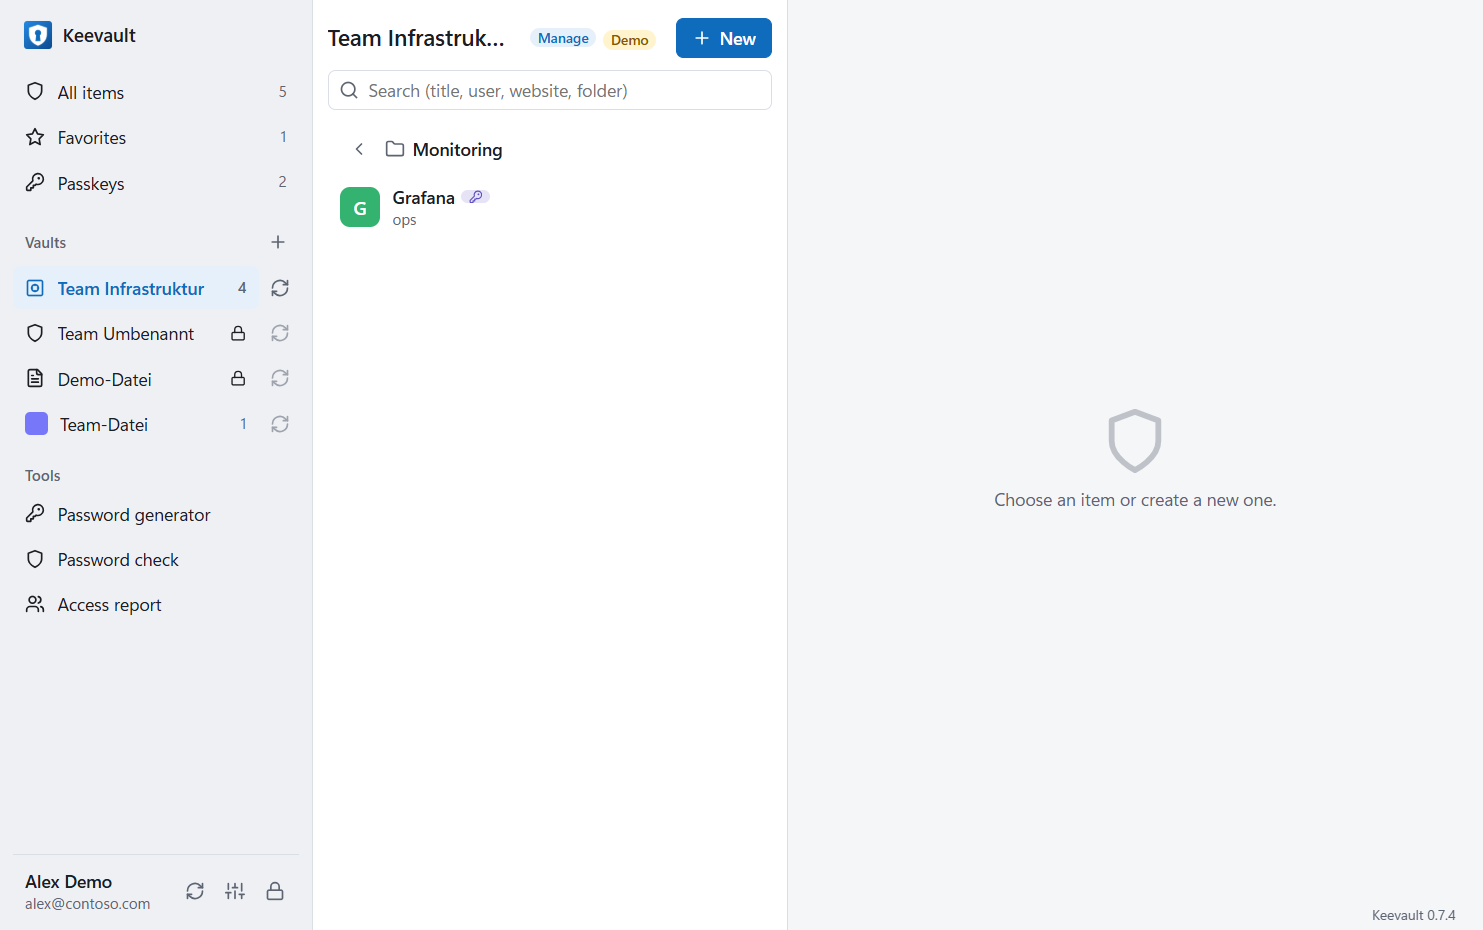
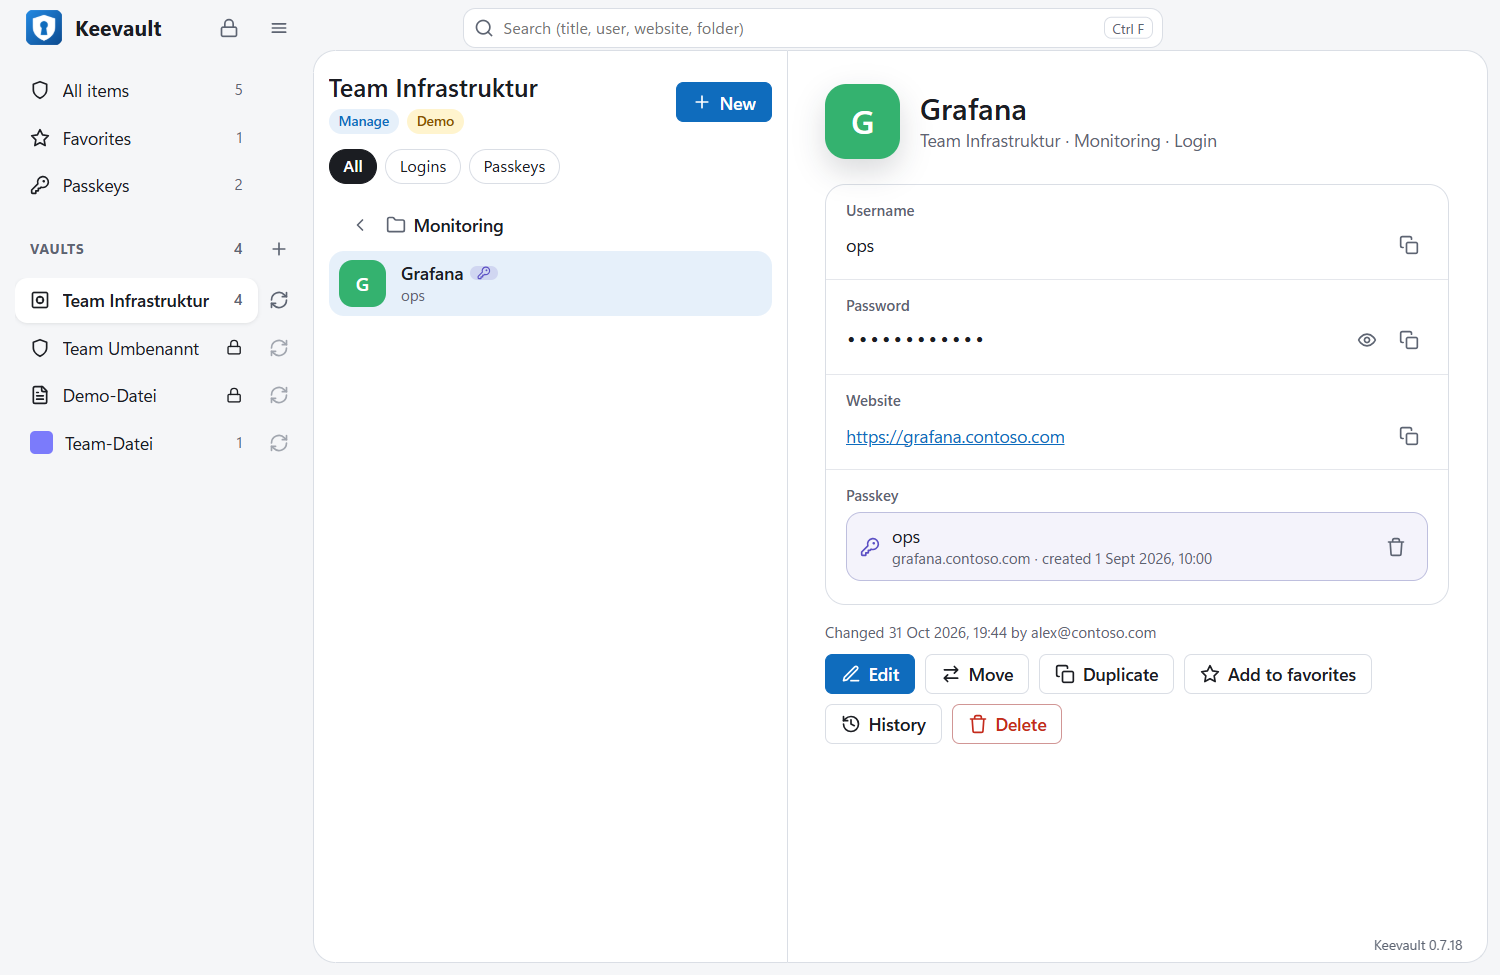
Keevault 0.8.0

diff --git a/desktop/renderer/app.js b/desktop/renderer/app.js
@@ -36,6 +36,11 @@ async function call(method, ...args) {
 }
 
 const root = document.getElementById('app');
+// Windows: the window has no title bar (desktop/main.js) – a drag strip at the top and room for the window buttons.
+if (/Win/.test(navigator.platform)) document.documentElement.classList.add('frameless');
+document.body.prepend(h('div', { class: 'drag-strip', 'aria-hidden': 'true' }));
+// Search field in the top bar (above list and details); renderList puts the current view's field into it.
+const topSearch = h('div', { class: 'top-search' });
 const panes = { sidebar: h('aside', { class: 'sidebar' }), list: h('section', { class: 'list-pane' }), detail: h('section', { class: 'detail-pane' }) };
 const ui = { view: 'all', containerId: null, selected: null, editing: null, editingItem: null, query: '', folder: '', folderOf: null, multi: new Set(), type: '', vaultQuery: '' };
 // Vaults that fit in the sidebar without scrolling; with more, the list scrolls and a search appears above it.
@@ -344,7 +349,7 @@ async function render() {
   const firstRun = !st.hasFiles && !st.settings.entraUsed && !st.settings.enforced.includes('tenantId') && !st.settings.policyContainers.length;
   if (!st.opened) return firstRun ? renderSetup() : renderLocked();
   await loadItems();
-  const shell = h('div', { class: 'shell' }, panes.sidebar, panes.list, panes.detail);
+  const shell = h('div', { class: 'shell' }, panes.sidebar, panes.list, panes.detail, topSearch);
   root.replaceChildren(shell);
   setupSplitters(shell);
   renderSidebar();
@@ -612,19 +617,17 @@ function renderSidebar() {
       refresh);
   });
   setChildren(panes.sidebar,
-    h('div', { class: 'brand' }, h('img', { src: '../assets/icon.png', alt: '' }), 'Keevault',
-      st.offline ? h('span', { class: 'badge warn', title: t('Letzter Stand: {date}', { date: formatDateTime(st.offlineAt) }) }, t('Offline – nur lesen')) : null),
+    h('div', { class: 'brand' }, h('img', { src: '../assets/icon.png', alt: '' }), h('span', { class: 'brand-name' }, 'Keevault'),
+      st.offline ? h('span', { class: 'badge warn', title: t('Letzter Stand: {date}', { date: formatDateTime(st.offlineAt) }) }, t('Offline')) : null,
+      h('span', { class: 'spacer' }),
+      iconButton('lock', t('Sperren'), () => call('lock')),
+      mainMenuButton()),
     nav('all', t('Alle Einträge'), 'shield', items.length),
     nav('favorites', t('Favoriten'), 'star', items.filter((i) => i.favorite).length),
     nav('passkeys', t('Passkeys'), 'key', items.filter((i) => i.rpIds.length).length),
     h('div', { class: 'nav-section' }, h('span', {}, t('Tresore')), h('span', { class: 'spacer' }), containers.length ? h('span', { class: 'count' }, containers.length) : null,
       iconButton('plus', t('Tresor hinzufügen oder erstellen'), containerMenu)),
     containers.length ? vaultList(containers) : h('p', { class: 'muted small pad' }, t('Noch keine Tresore. Mit + hinzufügen oder erstellen.')),
-    h('div', { class: 'nav-section' }, h('span', {}, t('Werkzeuge'))),
-    h('button', { class: 'nav', onclick: generatorDialog }, icon('key'), h('span', { class: 'nav-label' }, t('Passwort-Generator'))),
-    h('button', { class: 'nav', onclick: () => healthDialog(reportCtx()) }, icon('shield'), h('span', { class: 'nav-label' }, t('Passwort-Check')),
-      expiringEntries(items).length ? h('span', { class: 'count warn', title: t('Einträge laufen ab') }, expiringEntries(items).length) : null),
-    st.signedIn ? h('button', { class: 'nav', onclick: () => accessReportDialog(reportCtx()) }, icon('users'), h('span', { class: 'nav-label' }, t('Zugriffsbericht'))) : null,
     !st.signedIn ? h('button', { class: 'btn small', style: { margin: '8px 10px' }, onclick: async () => {
       try {
         await call('signIn');
@@ -633,15 +636,68 @@ function renderSidebar() {
         toast(e.message, 'error');
       }
     } }, icon('unlock', 14), t('Key-Vault-Tresore anmelden')) : null,
-    h('div', { class: 'spacer' }),
-    h('div', { class: 'account' },
-      h('div', { class: 'account-text' },
-        h('div', { class: 'row-title' }, st.account?.name || st.account?.username || t('Lokal')),
-        h('div', { class: 'row-sub' }, st.account?.username || t('Nur Datei-Tresore'))),
-      iconButton('refresh', t('Neu laden'), refresh),
-      iconButton('settings', t('Einstellungen'), settingsDialog),
-      iconButton('lock', t('Sperren'), () => call('lock'))),
   );
+}
+
+/** Burger next to the logo: opens the main menu; a dot when the password check reports expiring entries. */
+function mainMenuButton() {
+  const b = iconButton('menu', t('Menü'), (e) => mainMenu(e.currentTarget));
+  b.classList.add('menu-btn');
+  b.setAttribute('aria-haspopup', 'menu');
+  if (expiringEntries(items).length) b.append(h('span', { class: 'menu-dot', 'aria-hidden': 'true' }));
+  return b;
+}
+
+/** Main menu (account, reload, settings, tools, lock) as a card under the burger. */
+function mainMenu(anchor) {
+  const existing = document.querySelector('.main-menu');
+  if (existing) {
+    existing.remove();
+    return;
+  }
+  const name = st.account?.name || st.account?.username || t('Lokal');
+  const initials = name.split(/[\s@.]+/).filter(Boolean).slice(0, 2).map((x) => x[0].toUpperCase()).join('') || 'K';
+  const expiring = expiringEntries(items).length;
+  const entry = (action, iconName, label, onClick, extra = null) => h('button', { type: 'button', role: 'menuitem', dataset: { action }, onclick: () => {
+    close();
+    onClick();
+  } }, icon(iconName, 16), h('span', { class: 'grow' }, label), extra);
+  const menu = h('div', { class: 'main-menu', role: 'menu', 'aria-label': t('Menü') },
+    h('div', { class: 'main-menu-account' },
+      h('span', { class: 'main-menu-avatar' }, initials),
+      h('span', { class: 'main-menu-who' }, h('b', {}, name), h('span', {}, st.account?.username || t('Nur Datei-Tresore')))),
+    entry('reload', 'refresh', t('Neu laden'), refresh),
+    entry('settings', 'settings', t('Einstellungen'), settingsDialog),
+    h('div', { class: 'main-menu-label' }, t('Werkzeuge')),
+    entry('generator', 'key', t('Passwort-Generator'), generatorDialog),
+    entry('health', 'shield', t('Passwort-Check'), () => healthDialog(reportCtx()), expiring ? h('span', { class: 'count warn', title: t('Einträge laufen ab') }, expiring) : null),
+    st.signedIn ? entry('access', 'users', t('Zugriffsbericht'), () => accessReportDialog(reportCtx())) : null,
+    h('div', { class: 'context-sep' }),
+    entry('lock', 'lock', t('Sperren'), () => call('lock')));
+  const close = () => {
+    menu.classList.add('closing');
+    setTimeout(() => menu.remove(), 120);
+    window.removeEventListener('mousedown', outside, true);
+    window.removeEventListener('keydown', onKey, true);
+    window.removeEventListener('blur', close);
+  };
+  const outside = (e) => {
+    if (!menu.contains(e.target) && !anchor.contains(e.target)) close();
+  };
+  const onKey = (e) => {
+    if (e.key === 'Escape') {
+      close();
+      anchor.focus();
+    }
+  };
+  document.body.append(menu);
+  const r = anchor.getBoundingClientRect();
+  menu.style.top = `${r.bottom + 8}px`;
+  menu.style.left = `${Math.max(10, r.right - menu.offsetWidth)}px`;
+  window.addEventListener('mousedown', outside, true);
+  window.addEventListener('keydown', onKey, true);
+  window.addEventListener('blur', close);
+  menu.querySelector('button')?.focus();
 }
 
 /**
@@ -833,8 +889,9 @@ function renderList() {
     ui.folderOf = ui.containerId;
   }
   if (container?.locked && !container.error) {
+    topSearch.replaceChildren();
     setChildren(panes.list,
-      h('div', { class: 'list-head' }, h('h2', {}, title), containerBadges(container)),
+      h('div', { class: 'list-head' }, listTitle(title, container)),
       h('div', { class: 'list-scroll' }, h('span', { class: 'spinner' })));
     call('protectionInfo', container.id).then((info) => {
       panes.list.querySelector('.list-scroll').replaceChildren(info.secure
@@ -846,7 +903,7 @@ function renderList() {
 
   setChildren(panes.list,
     h('div', { class: 'list-head' }, container && logos.get(container.id) ? h('img', { class: 'container-logo large', src: logos.get(container.id), alt: '' }) : null,
-      h('h2', {}, title), container ? containerBadges(container) : null, h('span', { class: 'spacer' }),
+      listTitle(title, container),
       h('button', { class: 'btn primary', title: t('Neuer Eintrag (Strg+N)'), onclick: (e) => {
         // Choose what to create right at the button.
         const r = e.currentTarget.getBoundingClientRect();
@@ -897,10 +954,10 @@ function renderList() {
         toast(err.message, 'error');
       }
     } }, icon('unlock'), t('Im Tenant des Key Vaults anmelden')) : null,
-    h('div', { class: 'search' }, icon('search'), search),
     typePills(visibleItems({ ignoreType: true })),
     h('div', { class: 'list-scroll' }, rowsEl),
   );
+  topSearch.replaceChildren(h('div', { class: 'search' }, icon('search'), search, h('kbd', { 'aria-hidden': 'true' }, t('Strg F'))));
   renderRows();
   if (container && !container.error) {
     call('folders', container.id).then((f) => {
@@ -1664,6 +1721,11 @@ function licenseBadge(c) {
 }
 
 /** State badges next to the container name (functions: right-click in the sidebar). */
+/** List heading: the full name (wraps instead of being cut off) with the vault badges on a line below it. */
+function listTitle(title, container) {
+  return h('div', { class: 'list-title' }, h('h2', { title }, title), container ? containerBadges(container) : null);
+}
+
 function containerBadges(c) {
   return h('span', { class: 'head-badges' },
     accessBadge(c),

diff --git a/desktop/renderer/desktop.css b/desktop/renderer/desktop.css
@@ -294,3 +294,73 @@ body { overflow: hidden; }
 .splash .card-top { justify-content: center; position: relative; }
 .splash .card-top > :not(.splash-logo) { position: absolute; top: 0; right: 0; }
 .splash .card > p { text-align: center; }
+/* List heading: name on its own line (up to two lines), badges below. */
+.list-head { align-items: flex-start; }
+.list-title { flex: 1; min-width: 0; display: grid; gap: 5px; }
+.list-title h2, .list-head .list-title h2 { white-space: normal; overflow: hidden; display: -webkit-box; -webkit-line-clamp: 2; -webkit-box-orient: vertical; overflow-wrap: anywhere; line-height: 1.25; }
+.list-title .head-badges { margin-left: 0; flex-wrap: wrap; }
+.list-title .head-badges:empty { display: none; }
+.list-head .btn.primary { margin-top: 2px; }
+
+/* Windows without title bar: the top 40 px move the window (the native buttons sit top right, 138 px). The logo in
+   the sidebar sits in that strip; list and detail start below it so nothing clickable is covered. */
+.drag-strip { display: none; }
+.frameless .drag-strip { display: block; position: fixed; top: 0; left: 0; right: 138px; height: 40px; -webkit-app-region: drag; z-index: 2; }
+.frameless .sidebar { padding-top: 4px; }
+.frameless .brand { height: 36px; padding-top: 0; padding-bottom: 0; margin-bottom: 12px; }
+.frameless .list-pane, .frameless .detail-pane { margin-top: 40px; }
+.frameless .splitter { top: 40px; }
+.frameless .splash { padding-top: 48px; }
+.frameless dialog, .frameless .modal, .frameless .context-menu, .frameless .progress-toast { -webkit-app-region: no-drag; }
+
+/* Symmetry and lines (measured): one badge height, one column for all counts in the sidebar (aligned with the vault
+   counts, the + with the refresh buttons), the "New" button centred on the title block. */
+.head-badges { align-items: center; gap: 6px; }
+.head-badges > span:not(.badge) { display: contents; }
+.head-badges .badge { box-sizing: border-box; height: 20px; display: inline-flex; align-items: center; padding: 0 8px; margin: 0; font-size: 11px; line-height: 1; border: 0; vertical-align: middle; }
+.list-head { align-items: center; }
+.list-head .btn.primary { margin-top: 0; }
+.sidebar > .nav .count { margin-right: 32px; min-width: 14px; text-align: right; }
+.vault-list .count { min-width: 14px; text-align: right; }
+.nav-section { padding-right: 0; }
+.nav-section .count { margin-right: 8px; min-width: 14px; text-align: right; }
+
+/* Brand row with lock and burger; the main menu as a card under the burger. */
+.brand { align-items: center; }
+.brand .spacer { flex: 1; }
+.brand .icon-btn { -webkit-app-region: no-drag; width: 32px; height: 32px; border-radius: 9px; }
+.brand-name { white-space: nowrap; }
+.menu-btn { position: relative; }
+.menu-dot { position: absolute; top: 6px; right: 6px; width: 7px; height: 7px; border-radius: 50%; background: #e8a400; box-shadow: 0 0 0 2px var(--bg); }
+.main-menu { position: fixed; z-index: 1000; width: 270px; padding: 6px; border: 1px solid var(--border); border-radius: 16px; background: var(--surface);
+  box-shadow: 0 18px 40px color-mix(in srgb, var(--accent) 14%, transparent), 0 4px 14px rgba(20, 26, 38, .12); -webkit-app-region: no-drag;
+  transform-origin: top right; animation: menu-in .14s cubic-bezier(.2, .9, .3, 1.1); }
+.main-menu.closing { animation: menu-out .12s ease-in forwards; }
+.main-menu-account { display: flex; align-items: center; gap: 10px; margin: 0 0 6px; padding: 10px; border-radius: 12px; background: var(--bg); }
+.main-menu-avatar { flex: none; width: 36px; height: 36px; border-radius: 50%; display: grid; place-items: center; background: var(--accent-soft); color: var(--accent); font-weight: 700; font-size: 13px; }
+.main-menu-who { min-width: 0; display: grid; }
+.main-menu-who b, .main-menu-who span { overflow: hidden; text-overflow: ellipsis; white-space: nowrap; }
+.main-menu-who span { font-size: 12px; color: var(--muted); }
+.main-menu button { display: flex; align-items: center; gap: 12px; width: 100%; min-height: 36px; padding: 0 10px; border: 0; border-radius: 9px; background: none; color: var(--text); font: inherit; text-align: left; cursor: pointer; }
+.main-menu button:hover, .main-menu button:focus-visible { background: var(--accent-soft); outline: none; }
+.main-menu button > .icon { color: var(--muted); }
+.main-menu button:hover > .icon { color: var(--accent); }
+.main-menu .grow { flex: 1; }
+.main-menu-label { padding: 10px 10px 4px; font-size: 11px; font-weight: 700; letter-spacing: .06em; text-transform: uppercase; color: var(--muted); }
+@keyframes menu-in { from { opacity: 0; transform: translateY(-4px) scale(.97); } to { opacity: 1; transform: none; } }
+@keyframes menu-out { to { opacity: 0; transform: translateY(-4px) scale(.97); } }
+@media (prefers-reduced-motion: reduce) { .main-menu, .main-menu.closing { animation-duration: .01s; } }
+.frameless .brand, .brand { padding-right: 0; }
+.brand .icon-btn { width: 30px; height: 30px; }
+
+/* Top bar on every platform: logo + menu on the left, the search centred above list and details. Only the field
+   itself takes clicks; the rest of the bar moves the window (frameless, Windows). */
+.sidebar { padding-top: 4px; }
+.brand { height: 36px; padding-top: 0; padding-bottom: 0; margin-bottom: 12px; }
+.list-pane, .detail-pane { margin-top: 40px; }
+.splitter { top: 40px; }
+.top-search { position: absolute; top: 4px; height: 32px; left: var(--sidebar-w, 250px); right: 150px; display: flex; justify-content: center; z-index: 3; pointer-events: none; }
+.top-search .search { pointer-events: auto; width: min(560px, 100%); -webkit-app-region: no-drag; }
+.top-search input { min-height: 32px; padding-top: 4px; padding-bottom: 4px; padding-right: 64px; border-radius: 10px; background: var(--surface); font-size: 13px; }
+.top-search kbd { position: absolute; right: 8px; top: 50%; transform: translateY(-50%); padding: 1px 6px; border: 1px solid var(--border); border-radius: 6px; font: 11px var(--font); color: var(--muted); pointer-events: none; }
+.top-search { top: 6px; }

diff --git a/desktop/main.js b/desktop/main.js
@@ -961,6 +961,12 @@ async function setupWindowsProvider() {
   if (r.response === 0) shell.openExternal('ms-settings:savedpasskeys');
 }
 
+/** Window buttons over the hidden title bar: the ground colour of the app (extension/styles/app.css --bg). */
+function titleBarColors() {
+  const dark = nativeTheme.shouldUseDarkColors;
+  return { color: dark ? '#18191d' : '#f5f6f8', symbolColor: dark ? '#eceef2' : '#1b1d22', height: 40 };
+}
+
 /** Windows login item of the installed app (tray only, --background); development and MSIX stay untouched. */
 function applyStartWithWindows() {
   if (!app.isPackaged || process.platform !== 'win32' || process.windowsStore || demo) return;
@@ -2081,6 +2087,9 @@ function createWindow() {
     backgroundColor: nativeTheme.shouldUseDarkColors ? '#18191d' : '#f5f6f8',
     autoHideMenuBar: true,
     show: false,
+    // Windows: no title bar – the app's ground colour runs up to the top edge with the logo top left; minimise,
+    // maximise and close stay native as an overlay top right (colours follow light/dark).
+    ...(process.platform === 'win32' ? { titleBarStyle: 'hidden', titleBarOverlay: titleBarColors() } : {}),
     webPreferences: {
       preload: path.join(here, 'preload.cjs'),
       contextIsolation: true,
@@ -2090,6 +2099,11 @@ function createWindow() {
     },
   });
   win.removeMenu();
+  if (process.platform === 'win32') {
+    const recolor = () => { if (win && !win.isDestroyed()) win.setTitleBarOverlay(titleBarColors()); };
+    nativeTheme.on('updated', recolor);
+    win.once('closed', () => nativeTheme.off('updated', recolor));
+  }
   win.loadURL('app://pwsafe/desktop/renderer/index.html');
   win.once('ready-to-show', () => {
     // Started with Windows (setting "Start with Windows"): only in the tray, the window opens on demand.
@@ -2563,7 +2577,7 @@ function runSmokeTest() {
         if (view === 'members') await menuAction('members');
         if (view === 'changelog') await menuAction('changelog');
       }
-      if (view?.startsWith('settings')) await js('document.querySelector(".sidebar .icon-btn[title=Einstellungen]")?.click()');
+      if (view?.startsWith('settings')) await js('document.querySelector(".menu-btn")?.click(); document.querySelector(".main-menu [data-action=settings]")?.click()');
       // Settings tab: settings-mcp (AI agents) or settings-<n> (n-th tab, 0-based).
       if (view === 'settings-mcp' || /^settings-\d$/.test(view || '')) {
         await new Promise((r) => setTimeout(r, 600));
@@ -2611,10 +2625,11 @@ function runSmokeTest() {
         send({ type: 'busy', containerId: (await vault.containers())[0]?.id, busy: true });
         await sleep(600);
       }
-      if (view === 'health') await js('[...document.querySelectorAll(".sidebar .nav")].find((n) => /Passwort-Check|Password check/.test(n.textContent))?.click()');
-      if (view === 'access') await js('[...document.querySelectorAll(".sidebar .nav")].find((n) => /Zugriffsbericht|Access report/.test(n.textContent))?.click()');
+      if (view === 'health') await js('document.querySelector(".menu-btn")?.click(); document.querySelector(".main-menu [data-action=health]")?.click()');
+      if (view === 'access') await js('document.querySelector(".menu-btn")?.click(); document.querySelector(".main-menu [data-action=access]")?.click()');
+      if (view === 'mainmenu') await js('document.querySelector(".menu-btn")?.click()');
       if (view === 'multi') {
-        await js('[...document.querySelectorAll(".sidebar .nav")].find((n) => /Alle Einträge|All entries/.test(n.textContent))?.click()');
+        await js('[...document.querySelectorAll(".sidebar .nav")].find((n) => /Alle Einträge|All entries|All items/.test(n.textContent))?.click()');
         await sleep(400);
         await js('document.querySelectorAll(".list li.row-item[data-key]")[0]?.click()');
         await sleep(200);
@@ -2649,6 +2664,11 @@ function runSmokeTest() {
         await js('document.querySelectorAll("dialog[open] .option-card")[2]?.click()');
       }
       if (view) await sleep(1200);
+      // Layout check (development): KVPWSAFE_MEASURE="<selector>[,<selector>…]" prints each match's box.
+      if (process.env.KVPWSAFE_MEASURE) {
+        const sel = JSON.stringify(process.env.KVPWSAFE_MEASURE);
+        console.log(await js(`JSON.stringify(${sel}.split(',').flatMap((q) => [...document.querySelectorAll(q)].slice(0, 6).map((e) => { const r = e.getBoundingClientRect(); return [q, (e.textContent || '').trim().slice(0, 18), Math.round(r.left), Math.round(r.top), Math.round(r.right), Math.round(r.bottom)]; })))`));
+      }
     }
     for (const f of missingFiles) errors.push(`missing file: ${f}`);
     if (screenshot) {

diff --git a/extension/core/dom.js b/extension/core/dom.js
@@ -46,6 +46,7 @@ const PATHS = {
   star: '<path d="m12 2 3.09 6.26L22 9.27l-5 4.87 1.18 6.88L12 17.77l-6.18 3.25L7 14.14 2 9.27l6.91-1.01L12 2z"/>',
   history: '<path d="M3 12a9 9 0 1 0 9-9 9.75 9.75 0 0 0-6.74 2.74L3 8"/><path d="M3 3v5h5"/><path d="M12 7v5l4 2"/>',
   shield: '<path d="M12 22s8-4 8-10V5l-8-3-8 3v7c0 6 8 10 8 10z"/>',
+  menu: '<path d="M4 7h16M4 12h16M4 17h16"/>',
   wand: '<path d="m21.64 3.64-1.28-1.28a1.21 1.21 0 0 0-1.72 0L2.36 18.64a1.21 1.21 0 0 0 0 1.72l1.28 1.28a1.2 1.2 0 0 0 1.72 0L21.64 5.36a1.2 1.2 0 0 0 0-1.72Z"/><path d="m14 7 3 3M5 6v4M19 14v4M10 2v2M7 8H3M21 16h-4M11 3H9"/>',
   check: '<path d="M20 6 9 17l-5-5"/>',
   qr: '<rect x="3" y="3" width="7" height="7" rx="1"/><rect x="14" y="3" width="7" height="7" rx="1"/><rect x="3" y="14" width="7" height="7" rx="1"/><path d="M14 14h3v3h-3zM21 14v3M17 21h4M14 21h.5"/>',

diff --git a/extension/core/i18n-en.js b/extension/core/i18n-en.js
@@ -1103,6 +1103,9 @@ export default {
   'Für diese Sitzung': 'For this session',
   'Für 1 Stunde': 'For 1 hour',
   'Passkey verwenden': 'Use passkey',
+  'Strg F': 'Ctrl F',
+  'Offline': 'Offline',
+  'Menü': 'Menu',
   'Tresore suchen': 'Search vaults',
   'Kein Tresor gefunden': 'No vault found',
   'Logins': 'Logins',

diff --git a/CHANGELOG.md b/CHANGELOG.md
@@ -4,6 +4,18 @@ Ein Abschnitt pro Version, Deutsch zuerst, die englische Liste unter `### Englis
 Abschnitt der aktuellen Version als `releaseNotes` an `release/latest.yml` (wird mitsigniert) und nutzt ihn als Text des
 GitHub-Releases; die App zeigt ihn im Update-Dialog. Ohne Abschnitt für die Version bricht das Release ab.
 
+## 0.8.0 – 2026-10-31
+- Fenster ohne Titelleiste: Das Logo sitzt nahtlos oben links, die Windows-Knöpfe in den Farben der App oben rechts.
+- Hauptmenü hinter dem Burger neben dem Logo: Konto, Neu laden, Einstellungen, Werkzeuge (Passwort-Generator, Passwort-Check, Zugriffsbericht) und Sperren; Sperren zusätzlich als eigener Knopf.
+- Suche in der oberen Leiste, mittig über Liste und Details (Strg+F).
+- Listenkopf: Der Tresorname steht voll da, die Markierungen (Verwalten, Demo …) darunter; Zähler, Knöpfe und Markierungen auf gemeinsamen Linien.
+
+### English
+- Window without title bar: the logo sits seamlessly top left, the Windows buttons in the app's colours top right.
+- Main menu behind the burger next to the logo: account, reload, settings, tools (password generator, password check, access report) and lock; lock also as its own button.
+- Search in the top bar, centred above list and details (Ctrl+F).
+- List heading: the vault name in full, the badges (Manage, Demo …) below; counts, buttons and badges on shared lines.
+
 ## 0.7.18 – 2026-10-31
 - Neues, modernes Design (hell und dunkel): Liste und Details als helle Karte mit großen Radien, Felder eines Eintrags als Karte mit Trennlinien, Filter-Pillen (Alle, Logins, Passkeys, Notizen …), zentrierter Sperrbildschirm und KI-Agent-Dialog, aufgeräumtes Popup der Erweiterung.
 - Tresore in der Seitenleiste: Anzahl neben der Überschrift; bei mehr als fünf Tresoren erscheinen „Tresore suchen“ und eine eigene Scrollleiste.
